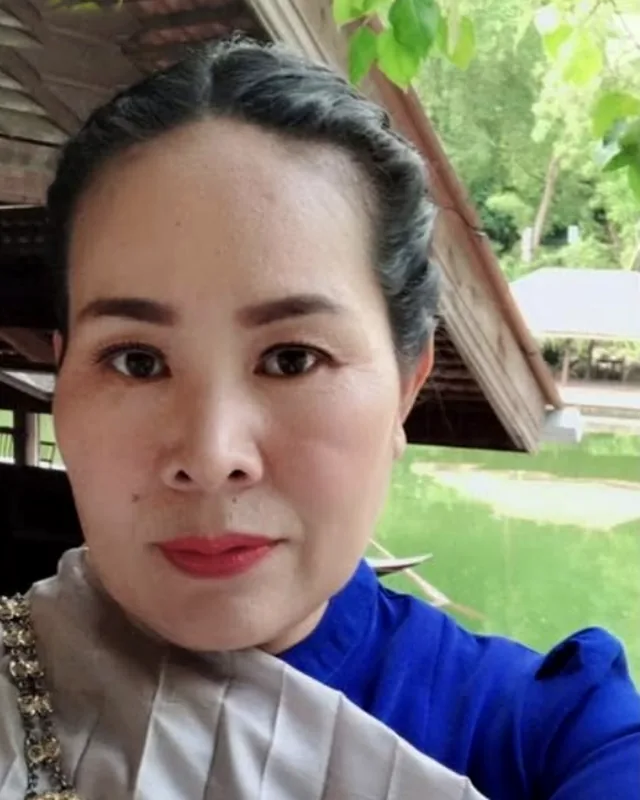
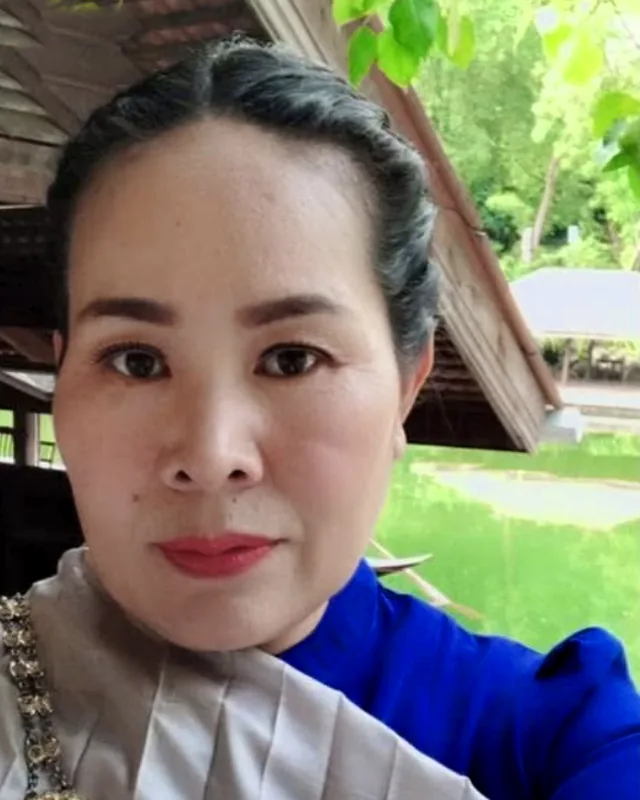
Chuan-Foto Fassung 2: Gruen x1.70, Blau x1.55, Gruen heller, Kontrast x1.06, Haut/Lichter geschuetzt

diff --git a/werkzeug/chuan_zuschnitt.py b/werkzeug/chuan_zuschnitt.py
@@ -27,15 +27,21 @@ def stirn_retusche(c, cx=264, cy=237, r=11, dy=-30, dx=-6):
     m=(m*m*(3-2*m))[...,None]
     return Image.fromarray(np.clip(a*(1-m)+fill*m,0,255).astype(np.uint8))
 
-def farben(c, sat_blau=1.30, sat_gruen=1.38, kontrast=1.03):
+def farben(c, sat_blau=1.55, sat_gruen=1.70, hell_gruen=1.07, kontrast=1.06):
+    # Fassung 2 (27.11.): Gruen/Blau deutlich kraeftiger, Gruen heller, Haut und Lichter geschuetzt
     hsv=np.asarray(c.convert('HSV')).astype(np.float32)   # H 0..255 = 0..360 Grad
     h=hsv[...,0]*360/255
     def band(lo,hi,f=15):                              # weicher Hue-Bereich
         return np.clip(np.minimum(h-lo,hi-h)/f+0.5,0,1)
-    gain=1+(sat_gruen-1)*band(65,170)+(sat_blau-1)*band(175,265)
+    bg=band(65,170); bb=band(175,265)
+    gain=1+(sat_gruen-1)*bg+(sat_blau-1)*bb
     hsv[...,1]=np.clip(hsv[...,1]*gain,0,255)
+    hsv[...,2]=np.clip(hsv[...,2]*(1+(hell_gruen-1)*bg*np.clip(hsv[...,1]/90,0,1)),0,255)   # nur satte Gruentoene heller
     out=np.asarray(Image.fromarray(hsv.astype(np.uint8),'HSV').convert('RGB')).astype(np.float32)
-    out=128+(out-128)*kontrast                         # leichter Kontrast um Mittelgrau
+    lum=out.mean(2,keepdims=True)
+    skin=np.clip((50-np.where(h>300,360-h,h))/15+0.5,0,1)[...,None]*np.clip(hsv[...,1:2]/40,0,1)
+    k=1+(kontrast-1)*(1-skin)*np.clip((250-lum)/50,0,1)   # keine Wirkung auf Haut und fast weisse Lichter
+    out=128+(out-128)*k
     return Image.fromarray(np.clip(out,0,255).astype(np.uint8))
 
 c=farben(stirn_retusche(c))
